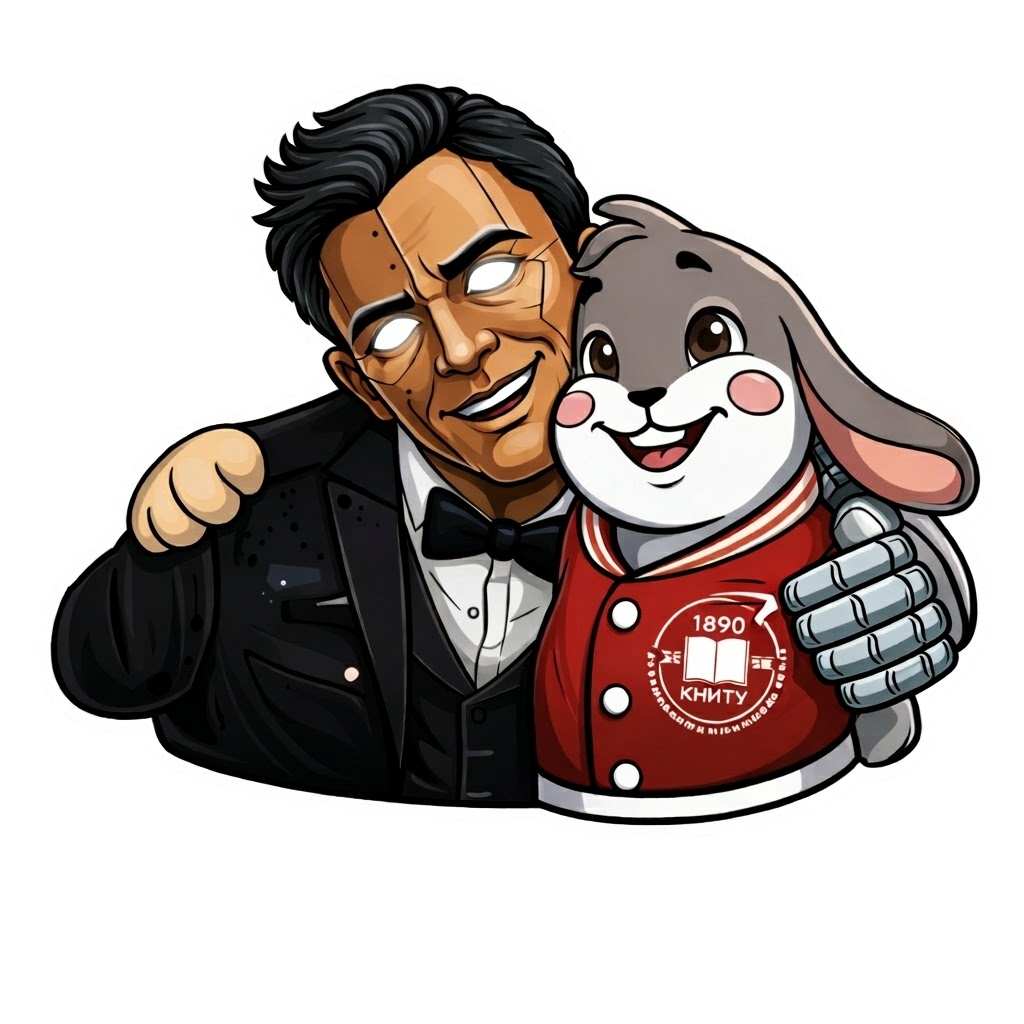
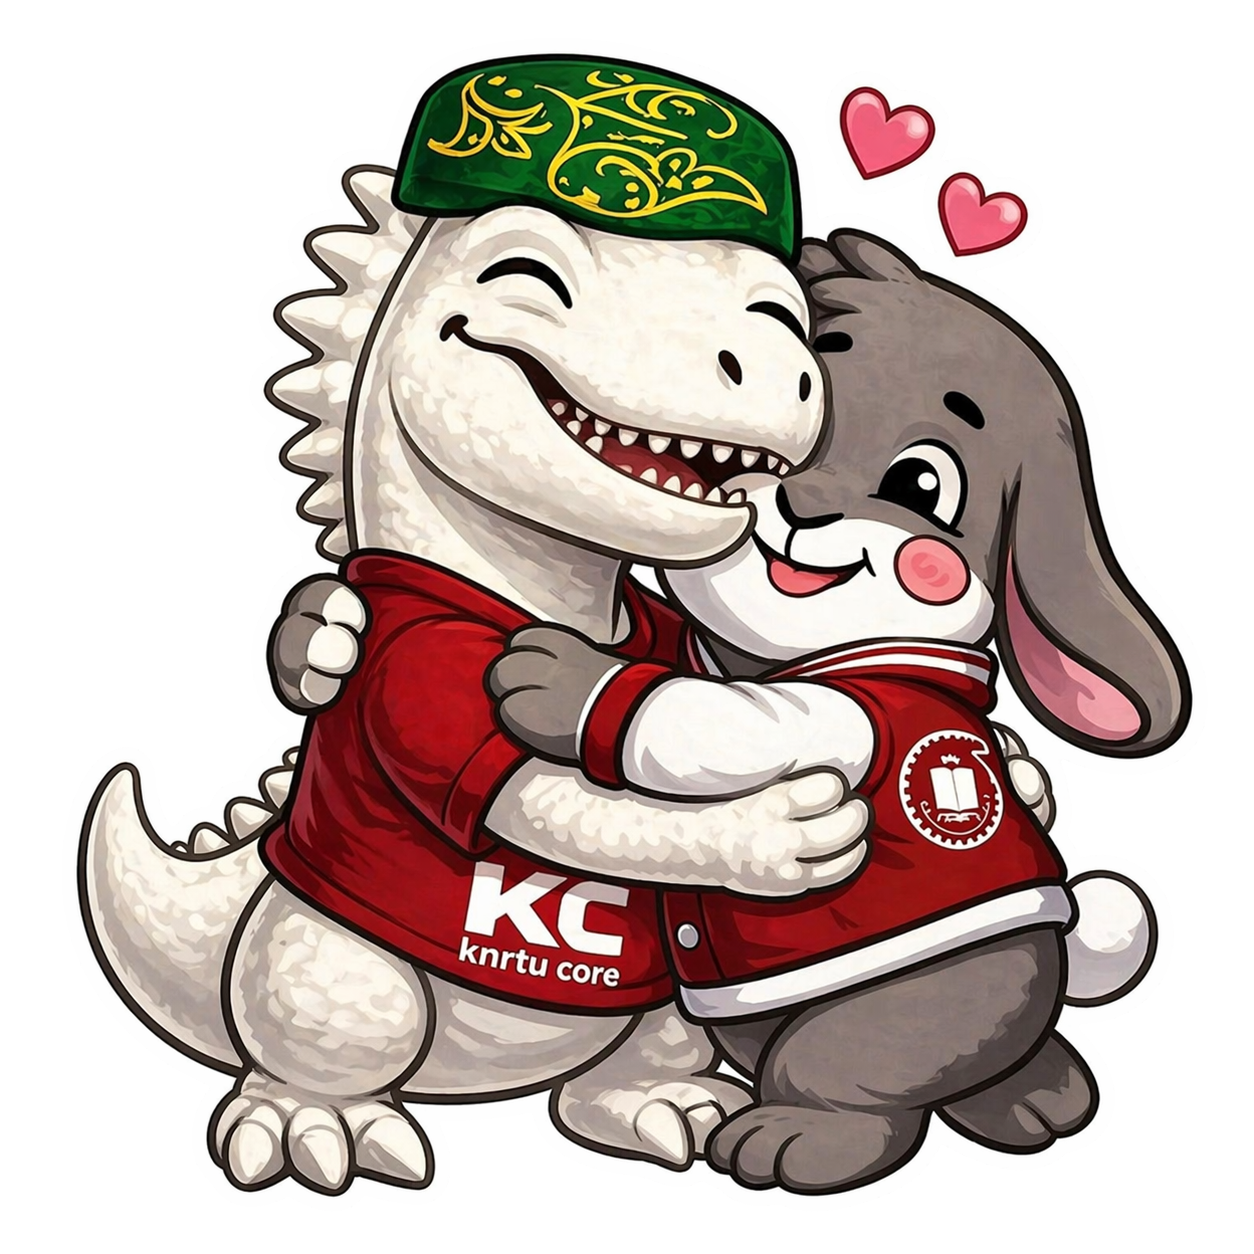
123

diff --git a/policy.html b/policy.html
@@ -1,131 +1,115 @@
 <!DOCTYPE html>
 <html lang="ru">
 <head>
-    <meta charset="UTF-8">
-    <meta name="viewport" content="width=device-width, initial-scale=1.0">
-    <title>Политика конфиденциальности | Math Tutor</title>
-    <link rel="icon" type="image/png" href="111.jpg">
-    <link href="https://fonts.googleapis.com/css2?family=Inter:wght@300;400;600;800&display=swap" rel="stylesheet">
-    <style>
-        :root {
-            --primary: #6366f1;
-            --accent: #22d3ee;
-            --bg: #0f172a;
-            --text: #f8fafc;
-            --glass: rgba(255, 255, 255, 0.03);
-            --border: rgba(255, 255, 255, 0.1);
-        }
+  <meta charset="UTF-8" />
+  <meta name="viewport" content="width=device-width, initial-scale=1.0" />
+  <title>Политика конфиденциальности</title>
 
-        * { user-select: none; margin: 0; padding: 0; box-sizing: border-box; font-family: 'Inter', sans-serif; }
-        body { background-color: var(--bg); color: var(--text); min-height: 100vh; line-height: 1.6; }
+  <style>
+/* normalize.css */
+*,
+::before,
+::after { box-sizing: border-box; }
+:where(ul, ol):where([class]) { padding-left: 0; }
+body,
+:where(blockquote, figure, fieldset):where([class]) { margin: 0; }
+:where(h1,h2,h3,h4,h5,h6,p,ul,ol,dl):where([class]) { margin-block: 0; }
+:where(dd[class]) { margin-left: 0; }
+:where(fieldset[class]) { padding: 0; border: none; }
+:where(ul[class]) { list-style: none; }
+:where(address[class]) { font-style: normal; }
+p { --paragraphMarginBottom: 24px; margin-block: 0; }
+p:where(:not([class]):not(:last-child)) { margin-bottom: var(--paragraphMarginBottom); }
+img, video { display: block; max-width: 100%; height: auto; }
+input, textarea, select, button { font: inherit; }
+html { height: 100%; scrollbar-gutter: stable; scroll-behavior: smooth; }
+body { min-height: 100%; line-height: 1.5; }
+a:where([class]) { display: inline-flex; }
+button, label { cursor: pointer; }
+button { -webkit-tap-highlight-color: transparent; }
+:where(table) { border-collapse: collapse; border-color: currentColor; }
 
-        /* Фон с летающими шарами */
-        .background { position: fixed; top: 0; left: 0; width: 100%; height: 100%; z-index: -2; filter: blur(100px); }
-        .sphere { position: absolute; border-radius: 50%; opacity: 0.4; transition: transform 0.2s ease-out; }
-        .sphere-1 { width: 500px; height: 500px; background: var(--primary); top: -100px; left: -100px; }
-        .sphere-2 { width: 600px; height: 600px; background: var(--accent); bottom: -150px; right: -100px; }
-
-        .container { max-width: 900px; margin: 0 auto; padding: 4rem 2rem; }
-
-        /* Стилизация текста политики */
-        .policy-card {
-            background: var(--glass);
-            border: 1px solid var(--border);
-            padding: 3rem;
-            border-radius: 32px;
-            backdrop-filter: blur(20px);
-            box-shadow: 0 25px 50px rgba(0,0,0,0.3);
-        }
-
-        .back-link {
-            display: inline-block;
-            margin-bottom: 2rem;
-            color: var(--accent);
-            text-decoration: none;
-            font-weight: 600;
-            transition: 0.3s;
-        }
-        .back-link:hover { opacity: 0.8; transform: translateX(-5px); }
-
-        h1 { font-size: 2.5rem; margin-bottom: 2rem; background: linear-gradient(45deg, #fff, var(--accent)); -webkit-background-clip: text; -webkit-text-fill-color: transparent; }
-        h2 { font-size: 1.5rem; margin-top: 2.5rem; margin-bottom: 1rem; color: #fff; border-bottom: 1px solid var(--border); padding-bottom: 0.5rem; }
-        
-        p, li { color: #94a3b8; margin-bottom: 1rem; font-size: 1.05rem; list-style: none; }
-        .contact-info { background: rgba(99, 102, 241, 0.1); padding: 1.5rem; border-radius: 15px; margin-top: 2rem; border: 1px solid var(--primary); }
-        .contact-info strong { color: #fff; }
-
-        footer { text-align: center; padding: 4rem 0; color: #475569; }
-
-        @media (max-width: 600px) {
-            .policy-card { padding: 1.5rem; }
-            h1 { font-size: 1.8rem; }
-        }
-    </style>
+/* styles.css */
+@import url('https://fonts.googleapis.com/css2?family=Inter:wght@100..900&display=swap');
+:root {
+  --color-wight: #d6d6d6;
+  --color-gray: #161616;
+  --glass: rgba(255,255,255,0.03);
+  --border: rgba(255,255,255,0.1);
+  --accent: #22d3ee;
+  --primary: #6366f1;
+  --color-blue: #0f172a;
+  --color-light-blue: #94a3b8;
+  --color-purpule: #5982b7;
+  --container-width: 1500px;
+  --container-pagging-x: 15px;
+  --border-radius: 24px;
+}
+body {
+  position: relative;
+  font-family: "Inter", sans-serif;
+  color: var(--color-wight);
+  background-color: var(--color-blue);
+  padding-inline: 10px;
+}
+.container {
+  width: 100%;
+  max-width: calc(var(--container-width) + var(--container-pagging-x) * 2);
+  padding: 40px;
+  margin: auto;
+}
+a { text-decoration: underline; color: var(--color-purpule); }
+.title-small { font-size: clamp(20px, 5vw, 35px); color: var(--color-light-blue); }
+.circle-1, .circle-2 {
+  position: fixed;
+  z-index: -2;
+  width: 600px;
+  aspect-ratio: 1;
+  filter: blur(300px);
+}
+.circle-1 { top: -20%; left: -20%; background: var(--accent); }
+.circle-2 { bottom: -20%; right: -20%; background: var(--primary); }
+.privacy-policy__content { display: flex; flex-direction: column; row-gap: 40px; }
+.privacy-policy__header-title {
+  font-size: clamp(30px, 6vw, 50px);
+  line-height: 1.2;
+  text-align: center;
+  margin-block: 20px 40px;
+}
+.privacy-policy__date { text-align: center; margin-bottom: 60px; }
+.privacy-policy__section {
+  color: var(--color-light-blue);
+  border: 1px solid var(--border);
+  padding: 2.5rem;
+  backdrop-filter: blur(15px);
+  border-radius: var(--border-radius);
+  background-color: var(--glass);
+}
+.privacy-policy__section-title { font-weight: 500; margin-bottom: 30px; }
+.title-small { display: inline-block; }
+  </style>
 </head>
 <body>
+  <div class="circle-1"></div>
+  <div class="circle-2"></div>
 
-    <div class="background">
-        <div class="sphere sphere-1"></div>
-        <div class="sphere sphere-2"></div>
-    </div>
+  <article class="privacy-policy">
+    <header class="privacy-policy__header container">
+      <h1 class="privacy-policy__header-title">
+        Политика обработки персональных данных<br />
+        <span class="title-small">Telegram-бота «Math Tutor»</span>
+      </h1>
+      <p class="privacy-policy__date">
+        Дата последнего обновления: 6 апреля 2026 г.
+      </p>
+    </header>
 
-    <main class="container">
-        <a href="index.html" class="back-link">← Вернуться на главную</a>
-        
-        <div class="policy-card">
-            <h1>Политика обработки персональных данных</h1>
-            
-            <section>
-                <h2>1. Общие положения</h2>
-                <p>1.1. Настоящая Политика разработана в соответствии с ФЗ № 152-ФЗ «О персональных данных» и определяет порядок обработки данных в Telegram-боте «Math Tutor»[cite: 2, 6].</p>
-                <p>1.2. Операторами персональных данных являются: infinity_ (@infinityriver) и iislaam) (@iisssslaam)[cite: 3, 4, 5].</p>
-                <p>1.3. Использование Бота означает безоговорочное согласие пользователя с настоящей Политикой[cite: 7].</p>
-            </section>
-
-            <section>
-                <h2>2. Состав обрабатываемых данных</h2>
-                <p>Операторы обрабатывают следующие данные[cite: 12]:</p>
-                <ul>
-                    <li>• Имя и фамилия [cite: 13, 14]</li>
-                    <li>• Наименование института и номер группы [cite: 15, 16]</li>
-                    <li>• Логин и хэш пароля от учетной записи на сайте института [cite: 17, 18, 36]</li>
-                    <li>• Telegram ID пользователя [cite: 19]</li>
-                </ul>
-            </section>
-
-            <section>
-                <h2>3. Цели обработки</h2>
-                <p>Данные обрабатываются для идентификации, регистрации, отображения учебного расписания и обеспечения корректной работы Бота[cite: 21, 22, 23, 24, 26].</p>
-            </section>
-
-            <section>
-                <h2>4. Безопасность и хранение</h2>
-                <p>Данные хранятся на серверах в РФ[cite: 29]. Операторы принимают технические меры защиты, включая хэширование паролей (пароли не хранятся в открытом виде)[cite: 30, 36]. Обработка ведется до момента удаления данных пользователем через интерфейс бота[cite: 38].</p>
-            </section>
-
-            <section>
-                <h2>5. Права пользователя</h2>
-                <p>Пользователь имеет право получать информацию об обработке данных, требовать их блокирования или уничтожения, а также отозвать согласие в любой момент[cite: 39, 40, 41, 42, 44].</p>
-            </section>
-
-            <div class="contact-info">
-                <strong>Контактная информация:</strong><br>
-                По вопросам обработки данных: @infinityriver или @iisssslaam [cite: 50, 51, 52]
-            </div>
-        </div>
+    <main class="privacy-policy__content">
+      <section class="privacy-policy__section container">
+        <h2 class="privacy-policy__section-title">1. Общие положения</h2>
+        <p>Единый HTML-файл с встроенными стилями создан на основе ваших index.html, normalize.css и styles.css.</p>
+      </section>
     </main>
-
-    <footer>
-        © 2026 Math Tutor AI | КНИТУ
-    </footer>
-
-    <script>
-        document.addEventListener('mousemove', (e) => {
-            const x = (e.clientX - window.innerWidth/2) * 0.02;
-            const y = (e.clientY - window.innerHeight/2) * 0.02;
-            document.querySelector('.sphere-1').style.transform = `translate(${x}px, ${y}px)`;
-            document.querySelector('.sphere-2').style.transform = `translate(${-x}px, ${-y}px)`;
-        });
-    </script>
+  </article>
 </body>
 </html>

diff --git a/index.html b/index.html
@@ -3,8 +3,8 @@
 <head>
     <meta charset="UTF-8">
     <meta name="viewport" content="width=device-width, initial-scale=1.0">
-    <title>Math Tutor | KNRTU</title>
-    <link rel="icon" type="image/png" href="111.jpg">
+    <title>KNRTU core BOT | KNRTU</title>
+    <link rel="icon" type="image/png" href="111.png">
     <link href="https://fonts.googleapis.com/css2?family=Inter:wght@300;400;600;800&display=swap" rel="stylesheet">
     <style>
         :root {
@@ -193,13 +193,13 @@
     <main class="container">
         <section class="hero">
             <div class="mascot-box">
-                <img src="avatar.jpg" alt="Math Tutor KNRTU">
+                <img src="avatar.png" alt="KNRTU core BOT">
             </div>
             <div class="hero-content">
                 <div class="badge">Специально для КНИТУ 🎓</div>
-                <h1>Math Tutor<br>уже в деле 🚀</h1>
+                <h1>KNRTU core<br>уже в деле 🚀</h1>
                 <p class="hero-p">Кидай задачу — забирай ответ. Твой личный ИИ-наставник по высшей математике, готовый прийти на помощь 24/7.</p>
-                <a href="https://t.me/MathTutor_KNRTU_bot" class="cta">Начать решать прямо сейчас 👇</a>
+                <a href="https://t.me/KNRTU_core_bot" class="cta">Начать решать прямо сейчас 👇</a>
             </div>
         </section>
 
@@ -225,7 +225,7 @@
             <h2>Твой умный помощник</h2>
             <p>
                 Мы разработали этот бот, чтобы студенты КНИТУ могли тратить меньше времени на рутину и больше — на реальные знания. 
-                Math Tutor адаптирован под вузовскую программу: от простых пределов до сложной линейной алгебры. 
+                KNRTU core BOT адаптирован под вузовскую программу: от простых пределов до сложной линейной алгебры. 
                 Внутри ты найдешь не только калькулятор, но и полноценную поддержку ИИ, которая поможет подготовиться к любой контрольной.
             </p>
         </section>
@@ -234,7 +234,7 @@
             <div class="wide-card">
                 <div class="wide-card-text">
                     <h2>Стань самым активным</h2>
-                    <p>Следи за своей статистикой в личном кабинете бота. Самые активные пользователи, решающие задачи через наш сервис, получают ценные призы и бонусы от команды Math Tutor.</p>
+                    <p>Следи за своей статистикой в личном кабинете бота. Самые активные пользователи, решающие задачи через наш сервис, получают ценные призы и бонусы от команды KNRTU core.</p>
                 </div>
                 <div class="floating-imgs">
                     <img src="1.png" class="f-img" alt="">
@@ -247,7 +247,7 @@
 
     <footer>
         <div class="container">
-            © 2026 Math Tutor AI | Создано для студентов КНИТУ
+            © 2026 KNRTU core AI | Создано для студентов КНИТУ
         </div>
     </footer>
 